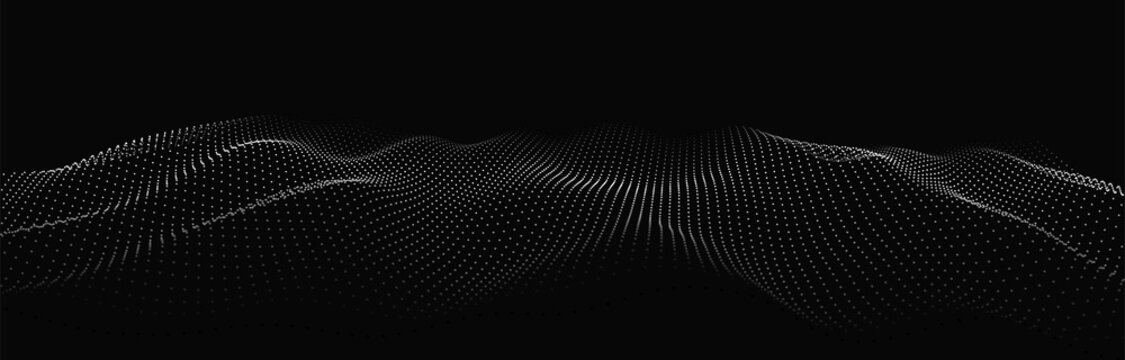
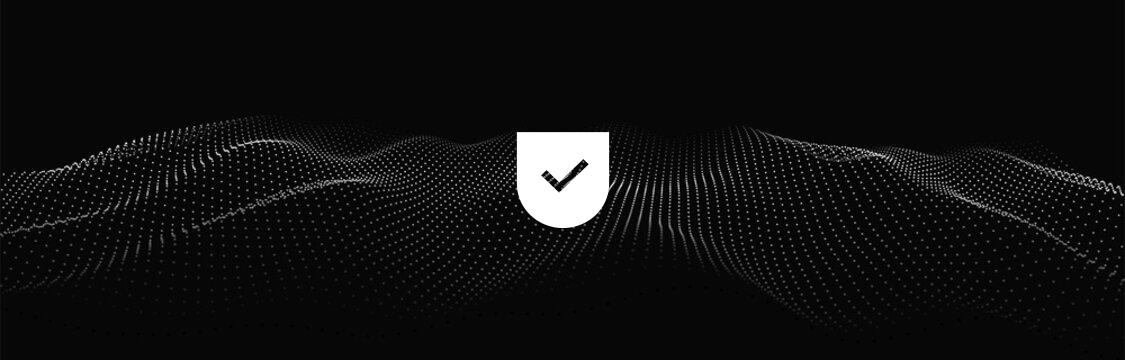
DGU-39 - digiServices => Changed header font size and changed digi protect image

Changed region(s): [[0.4356, 0.3667, 0.56, 0.6417]]

diff --git a/app/code/Digidirect/ParticularAudienceAPI/view/frontend/web/css/source/module/home/digiservices.less b/app/code/Digidirect/ParticularAudienceAPI/view/frontend/web/css/source/module/home/digiservices.less
@@ -72,7 +72,7 @@
                     align-items: center;
 
                     h1 {
-                        font-size: 40px;
+                        font-size: 30px;
                         margin: 0 0 4px 0;
                         line-height: 1.2;
 
@@ -110,7 +110,7 @@
                 }
 
                 p {
-                    font-size: 14px;
+                    font-size: 13px;
                     color: #242426;
                     margin: 0;
                     letter-spacing: 0.5px;
